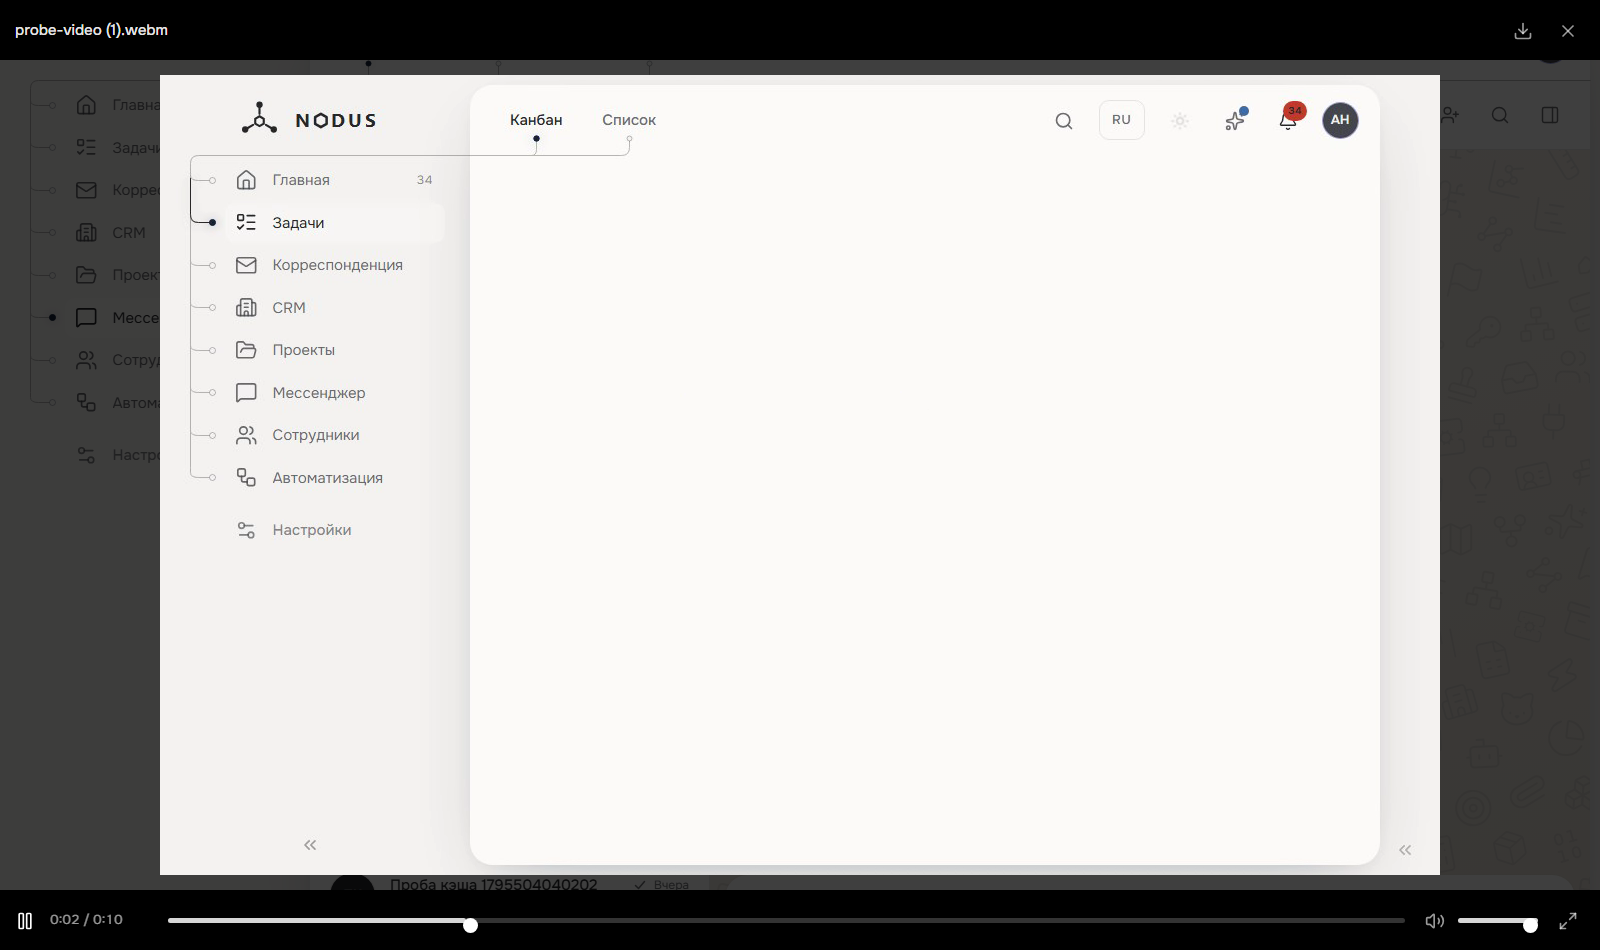
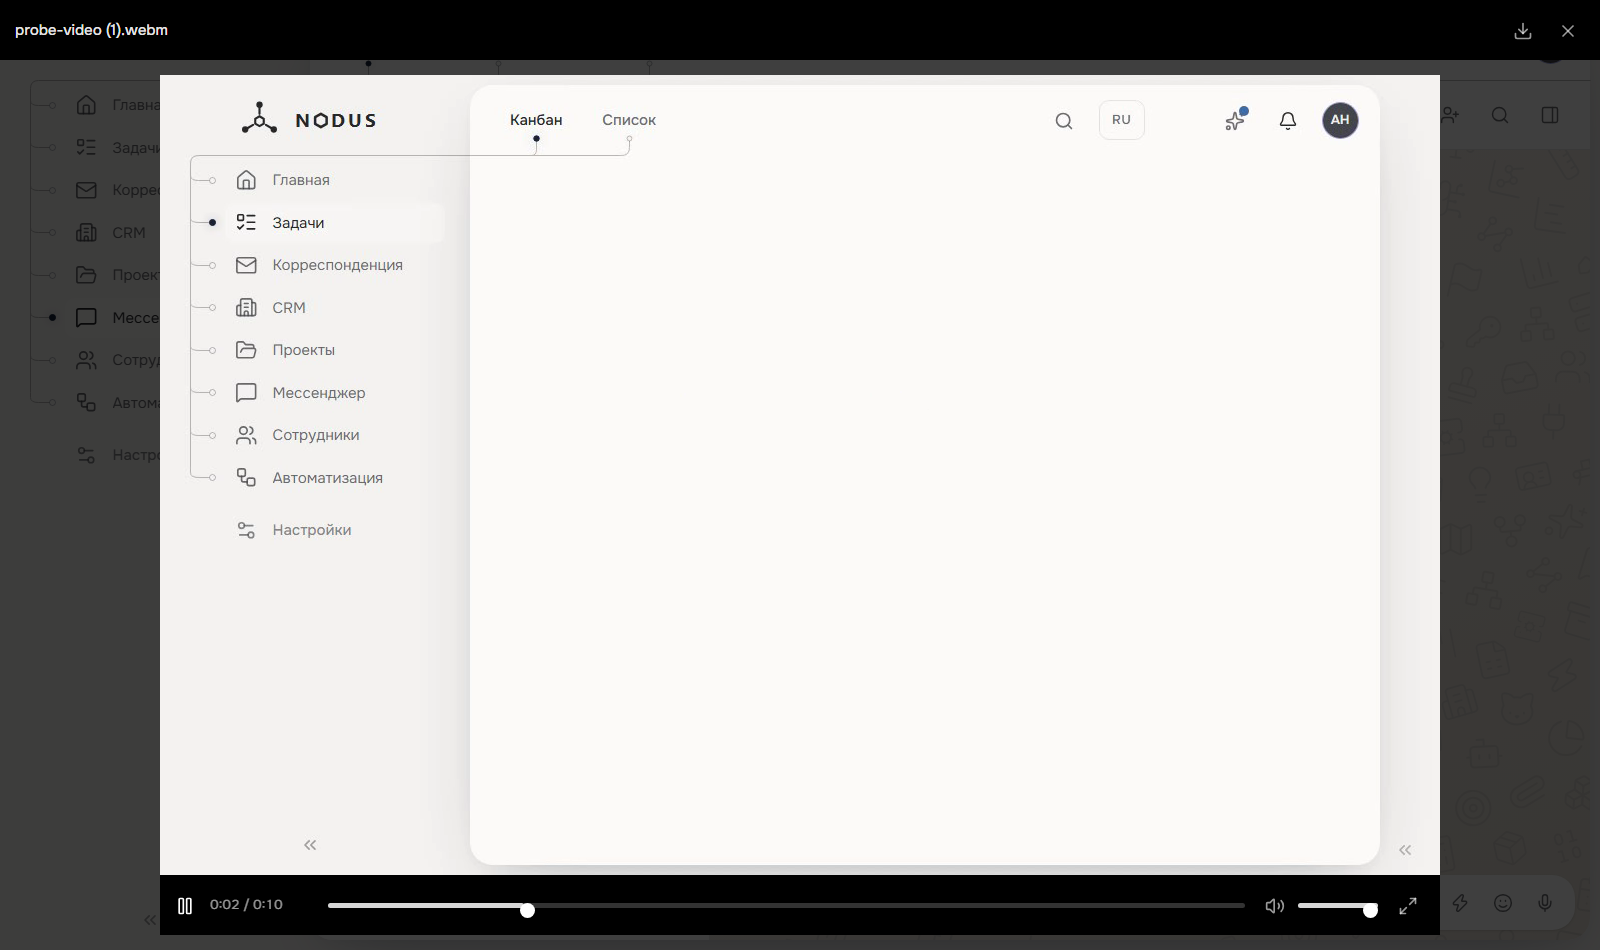
fix(web): полоса видео вплотную под кадром, по его ширине (#1054)

Changed region(s): [[0.0, 0.9158, 1.0, 1.0], [0.7812, 0.0916, 0.8125, 0.1221]]

diff --git a/apps/web/src/shared/files/video-player-view.tsx b/apps/web/src/shared/files/video-player-view.tsx
@@ -1,4 +1,11 @@
-import { useCallback, useEffect, useRef, type KeyboardEvent } from 'react';
+import {
+  useCallback,
+  useEffect,
+  useLayoutEffect,
+  useRef,
+  useState,
+  type KeyboardEvent,
+} from 'react';
 import { createPortal } from 'react-dom';
 import { Download, X } from 'lucide-react';
 import { ui } from '@nodus/contracts';
@@ -22,8 +29,10 @@ import { useVideoPlayer, type VideoPlayer } from './use-video-player.js';
  * Кадр чистый (#1054, указание владельца 25.11.2026): браузерная полоса
  * управления Chromium рисовала тёмный градиент ПОВЕРХ нижней части ролика
  * и перекрывала содержимое записи. Теперь `<video>` без `controls`, а
- * кнопки — своей полосой ПОД кадром (`VideoControlBar`) на фоне зала:
- * тёмный фон остаётся, кадр не притемняется никогда.
+ * кнопки — своей полосой вплотную ПОД кадром (`VideoControlBar`): тёмный
+ * фон зала остаётся, кадр не притемняется никогда. Полоса равна кадру по
+ * ширине и приклеена к его нижней кромке без зазора — кадр и управление
+ * читаются одним блоком (уточнение владельца: «ровно под видео без отступов»).
  *
  * Клавиатура: фокус ставится на `<video>` при открытии явно — React
  * `autoFocus` для медиаэлементов не работает (`commitMount` фокусирует
@@ -103,6 +112,20 @@ export function VideoPlayerView({
     playerRef.current?.focus({ preventScroll: true });
   }, [url]);
 
+  // Ширина кадра — для полосы: она равна кадру и приклеена к его кромке.
+  // ResizeObserver: кадр меняет размер при смене окна и после метаданных.
+  const [frameWidth, setFrameWidth] = useState(0);
+  useLayoutEffect(() => {
+    const el = playerRef.current;
+    if (!el) return;
+    const sync = () => setFrameWidth(el.clientWidth);
+    sync();
+    if (typeof ResizeObserver === 'undefined') return;
+    const observer = new ResizeObserver(sync);
+    observer.observe(el);
+    return () => observer.disconnect();
+  }, [url]);
+
   const close = useCallback(() => {
     // Закрытие из полноэкранного режима: сначала выходим из него, иначе
     // браузер оставил бы полноэкранным уже размонтированный слой.
@@ -153,29 +176,36 @@ export function VideoPlayerView({
       </header>
 
       <div className="flex min-h-0 flex-1 items-center justify-center p-3">
-        <video
-          ref={playerRef}
-          key={url}
-          src={url}
-          autoPlay
-          preload="auto"
-          tabIndex={0}
-          playsInline
-          // Кадр — единственное «большое» действие зала (клик = пуск/пауза):
-          // курсор говорит о нажимаемости, фокус-рамка рисуется ВНЕ кадра
-          // (offset), а не поверх изображения — контент не перекрывается.
-          className="max-h-full max-w-full cursor-pointer object-contain focus-visible:outline-2 focus-visible:outline-offset-2 focus-visible:outline-white/60"
-          aria-label={name}
-          onKeyDown={(event) => handlePlayerKey(event, player)}
-          onClick={(event) => {
-            // Клик по кадру — пуск/пауза, а не закрытие зала.
-            event.stopPropagation();
-            player.togglePlay();
-          }}
-        />
+        {/* Кадр и полоса — ОДИН блок: полоса приклеена к нижней кромке кадра,
+            без зазора, и равна кадру по ширине (указание владельца 25.11.2026). */}
+        <div className="flex max-h-full min-h-0 max-w-full flex-col items-center">
+          <video
+            ref={playerRef}
+            key={url}
+            src={url}
+            autoPlay
+            preload="auto"
+            tabIndex={0}
+            playsInline
+            // Кадр — единственное «большое» действие зала (клик = пуск/пауза):
+            // курсор говорит о нажимаемости, фокус-рамка рисуется ВНЕ кадра
+            // (offset), а не поверх изображения — контент не перекрывается.
+            className="min-h-0 max-w-full cursor-pointer object-contain focus-visible:outline-2 focus-visible:outline-offset-2 focus-visible:outline-white/60"
+            aria-label={name}
+            onKeyDown={(event) => handlePlayerKey(event, player)}
+            onClick={(event) => {
+              // Клик по кадру — пуск/пауза, а не закрытие зала.
+              event.stopPropagation();
+              player.togglePlay();
+            }}
+          />
+          <VideoControlBar
+            player={player}
+            className="max-w-full"
+            style={frameWidth > 0 ? { width: frameWidth } : undefined}
+          />
+        </div>
       </div>
-
-      <VideoControlBar player={player} />
     </div>,
     document.body,
   );

diff --git a/apps/web/src/shared/files/video-player-view.test.tsx b/apps/web/src/shared/files/video-player-view.test.tsx
@@ -43,9 +43,11 @@ describe('VideoPlayerView — кинозал видео (#787)', () => {
     // #1005: фокус на плеере при открытии — иначе ←/→ уходят в интерфейс.
     expect(video?.tabIndex).toBe(0);
     expect(document.activeElement).toBe(video);
-    expect(video?.className).toContain('max-h-full');
+    expect(video?.className).toContain('min-h-0');
     expect(video?.className).toContain('max-w-full');
     expect(video?.className).toContain('object-contain');
+    // Высоту держит блок «кадр + полоса», кадр ужимается внутри (#1054).
+    expect(video?.parentElement?.className).toContain('max-h-full');
     expect(video?.getAttribute('aria-label')).toBe('ролик.mp4');
 
     expect(screen.getByText('ролик.mp4')).toBeTruthy();
@@ -54,14 +56,15 @@ describe('VideoPlayerView — кинозал видео (#787)', () => {
     expect(download.getAttribute('download')).toBe('ролик.mp4');
   });
 
-  it('полоса управления — ПОД кадром: кадр не перекрыт даже при наведении', () => {
+  it('полоса управления — ПОД кадром, вплотную: кадр не перекрыт даже при наведении', () => {
     render(<VideoPlayerView url="/files/roll.mp4" name="ролик.mp4" onClose={vi.fn()} />);
 
     const video = document.querySelector('video')!;
     const bar = screen.getByRole('toolbar', { name: ui.files.videoControls });
     // Управление живёт отдельной строкой зала, а не слоем поверх картинки.
     expect(bar.contains(video)).toBe(false);
-    expect(video.parentElement?.parentElement?.lastElementChild).toBe(bar);
+    // Приклеена к нижней кромке кадра: следующий элемент того же блока.
+    expect(video.nextElementSibling).toBe(bar);
   });
 
   it('закрывает по кнопке и по заднику, но не по клику на плеер', () => {

diff --git a/apps/web/src/shared/files/video-control-bar.tsx b/apps/web/src/shared/files/video-control-bar.tsx
@@ -1,4 +1,5 @@
 import { Maximize2, Minimize2, Pause, Play, RotateCcw, Volume2, VolumeX } from 'lucide-react';
+import type { CSSProperties } from 'react';
 import { ui } from '@nodus/contracts';
 import { Button } from '@nodus/ui/components/button';
 import { cn } from '@nodus/ui/lib/utils';
@@ -48,7 +49,15 @@ const UTILITY_BUTTON_CLASS = cn(
 );
 const FILL_CLASS = 'pointer-events-none absolute inset-y-0 left-0 rounded-full bg-white/80';
 
-export function VideoControlBar({ player }: { player: VideoPlayer }) {
+export function VideoControlBar({
+  player,
+  className,
+  style,
+}: {
+  player: VideoPlayer;
+  className?: string;
+  style?: CSSProperties;
+}) {
   const current = formatVideoDuration(player.time * 1000);
   const total = formatVideoDuration(player.duration * 1000);
   const played = player.duration > 0 ? Math.min(100, (player.time / player.duration) * 100) : 0;
@@ -66,7 +75,8 @@ export function VideoControlBar({ player }: { player: VideoPlayer }) {
       aria-label={ui.files.videoControls}
       // pl-1.5: иконка пуска встаёт на одну вертикаль с именем файла в шапке
       // (внутренний отступ icon-кнопки ровно pl-1.5) — левый край хрома один.
-      className="flex h-12 shrink-0 items-center gap-1.5 bg-black pr-3 pl-1.5"
+      className={cn('flex h-12 shrink-0 items-center gap-1.5 bg-black pr-3 pl-1.5', className)}
+      style={style}
       // Клик по полосе — не «мимо плеера»: кинозал не закрывается.
       onClick={(event) => event.stopPropagation()}
     >

diff --git a/docs/pr-assets/1054/README.md b/docs/pr-assets/1054/README.md
@@ -1,27 +1,34 @@
-# Кадры #1054 — управление видео под кадром
+# Кадры #1054 — управление видео под кадром, вплотную
 
-Песочница live-stack (`http://127.0.0.1:4173`, vite dev, **non-mock**, БД `nodus_night`),
-окно 1600×950, обе темы. Ролик — `probe-video (1).webm` из беседы «Проверка #250 —
-видео в чате» (пользователь `night-a@nodus.local`), съёмка Playwright'ом.
+Песочница/контур владельца (`http://localhost:5173`, фронт ветки + живой API ночного
+стенда), окно 1600×950 и 900×800, обе темы. Ролик — `probe-video (1).webm` из беседы
+«Проверка #250 — видео в чате» (`night-a@nodus.local`), съёмка Playwright'ом.
+
+Итог по указаниям владельца: тёмный фон зала остаётся (#790); браузерная полоса,
+которая притемняла низ кадра, убрана; своя полоса — **вплотную под кадром, без зазора
+и ровно по его ширине** («ползунок остаётся там, где был… ровно под видео без отступов»).
 
 ## До / после — одна и та же запись
 
 | Кадр | Что видно |
 | --- | --- |
-| `01-before-native-bar-light.png`, `02-before-native-bar-dark.png` | ДЕФЕКТ: браузерная полоса Chromium сама рисует тёмный градиент поверх низа ролика (ползунок, время, звук) — содержимое записи перекрыто |
-| `03-after-light.png`, `04-after-dark.png` | Наших кнопок поверх кадра нет: управление вынесено полосой ПОД кадром, тёмный фон зала сохранён (#790) |
+| `01-before-native-bar-light.png`, `02-before-native-bar-dark.png` | ДЕФЕКТ: браузерная полоса Chromium рисует тёмный градиент поверх низа ролика (ползунок, время, звук) — содержимое записи перекрыто |
+| `03-after-light.png`, `04-after-dark.png` | Кадр чистый; полоса приклеена к нижней кромке кадра, ширина = ширине кадра, зазора нет |
 
-## Прогон `ui-writer` — визуальный слой
+## Состояния (финальная геометрия)
 
 | Кадр | Что показывает |
 | --- | --- |
-| `05-playing-light.png`, `06-playing-dark.png` | Зал целиком: шапка (имя, «Скачать», крестик), кадр, полоса команд |
-| `07-narrow-light.png`, `08-narrow-dark.png` | Узкое окно 900×800: полоса не ломается, ползунок громкости помещается |
-| `09-fullscreen-light.png`, `10-fullscreen-dark.png` | Полный экран: разворачивается слой зала, браузерная полоса не возвращается |
-| `11-bar-light.png`, `12-bar-dark.png` | Полоса крупно (2×): пуск/пауза, время, перемотка, звук с громкостью, полный экран |
-| `13-focus-play.png`, `14-focus-seek.png` | Фокус с клавиатуры: белое кольцо (индиго темы на чёрном не читался) |
+| `05-light-paused.png` | Пауза: поверх кадра ничего не появляется, полоса на месте |
+| `06-narrow-dark.png`, `07-light-narrow.png` | Узкое окно 900×800: полоса равна кадру (870px), ничего не ломается |
+| `08-fullscreen-dark.png` | Полный экран: разворачивается слой зала, браузерная полоса не возвращается |
+| `09-bar-light.png`, `10-bar-dark.png` | Полоса крупно: пуск/пауза, время, перемотка, звук с громкостью, полный экран |
 
-Скрипт пробы — `.live-stack/probe-1054-shots.mjs`, эталонные кадры `ui-writer` —
-`.live-stack/shots/ui-writer-1054/` (оба пути в git не входят: `.live-stack/` — gitignored).
+Геометрия подтверждена пробой (обе темы, узкое окно): полоса и кадр — `flush`, `sameWidth`,
+`sameX` (расхождение ≤ 1px), поверх кадра наложений нет.
+
+Скрипты проб — `.live-stack/probe-1054-shots.mjs` (до/после) и
+`.live-stack/probe-1054-final.mjs` (финальные кадры); эталонные кадры прогона
+`ui-writer` — `.live-stack/shots/ui-writer-1054/` (все три пути в git не входят).
 
 Кадры — улика исполнения, не приёмка: визуальные оценки и вердикт — живой взгляд владельца.
